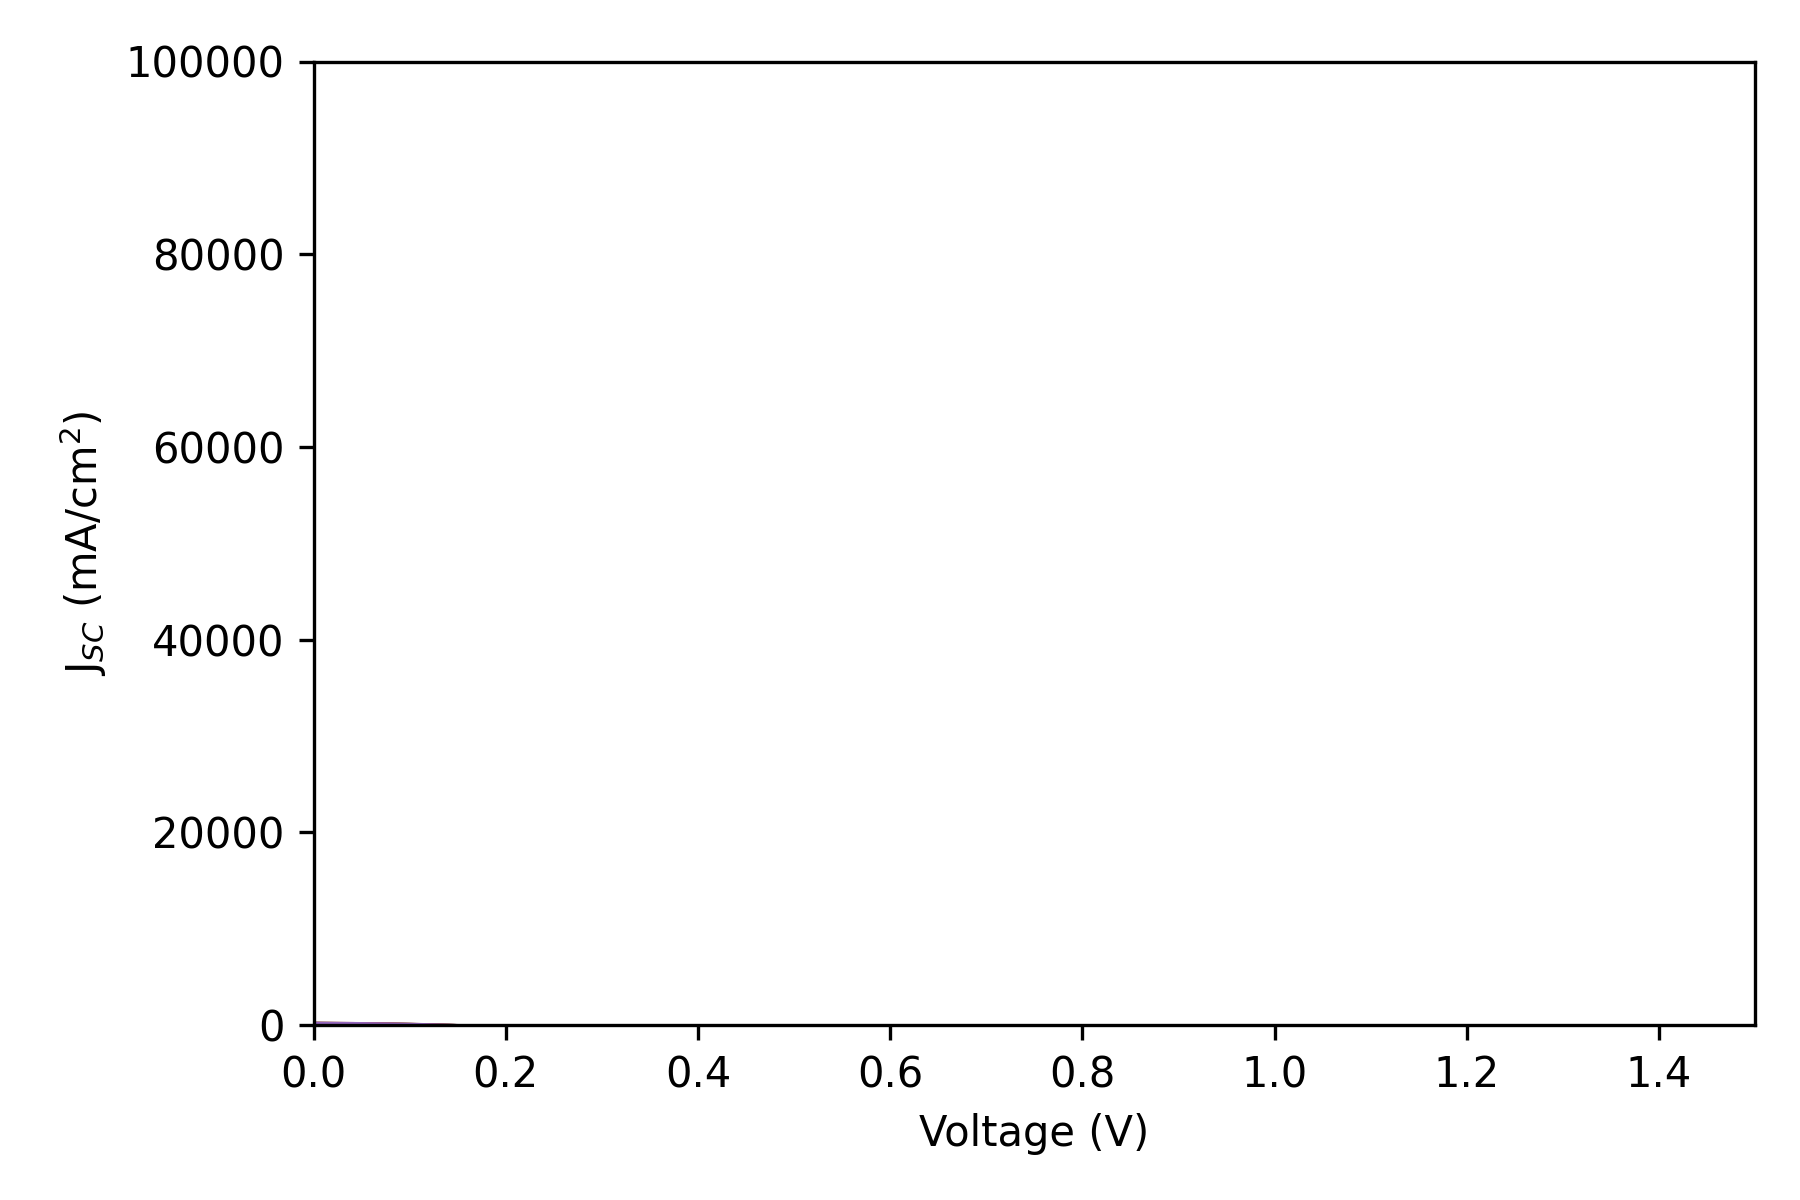
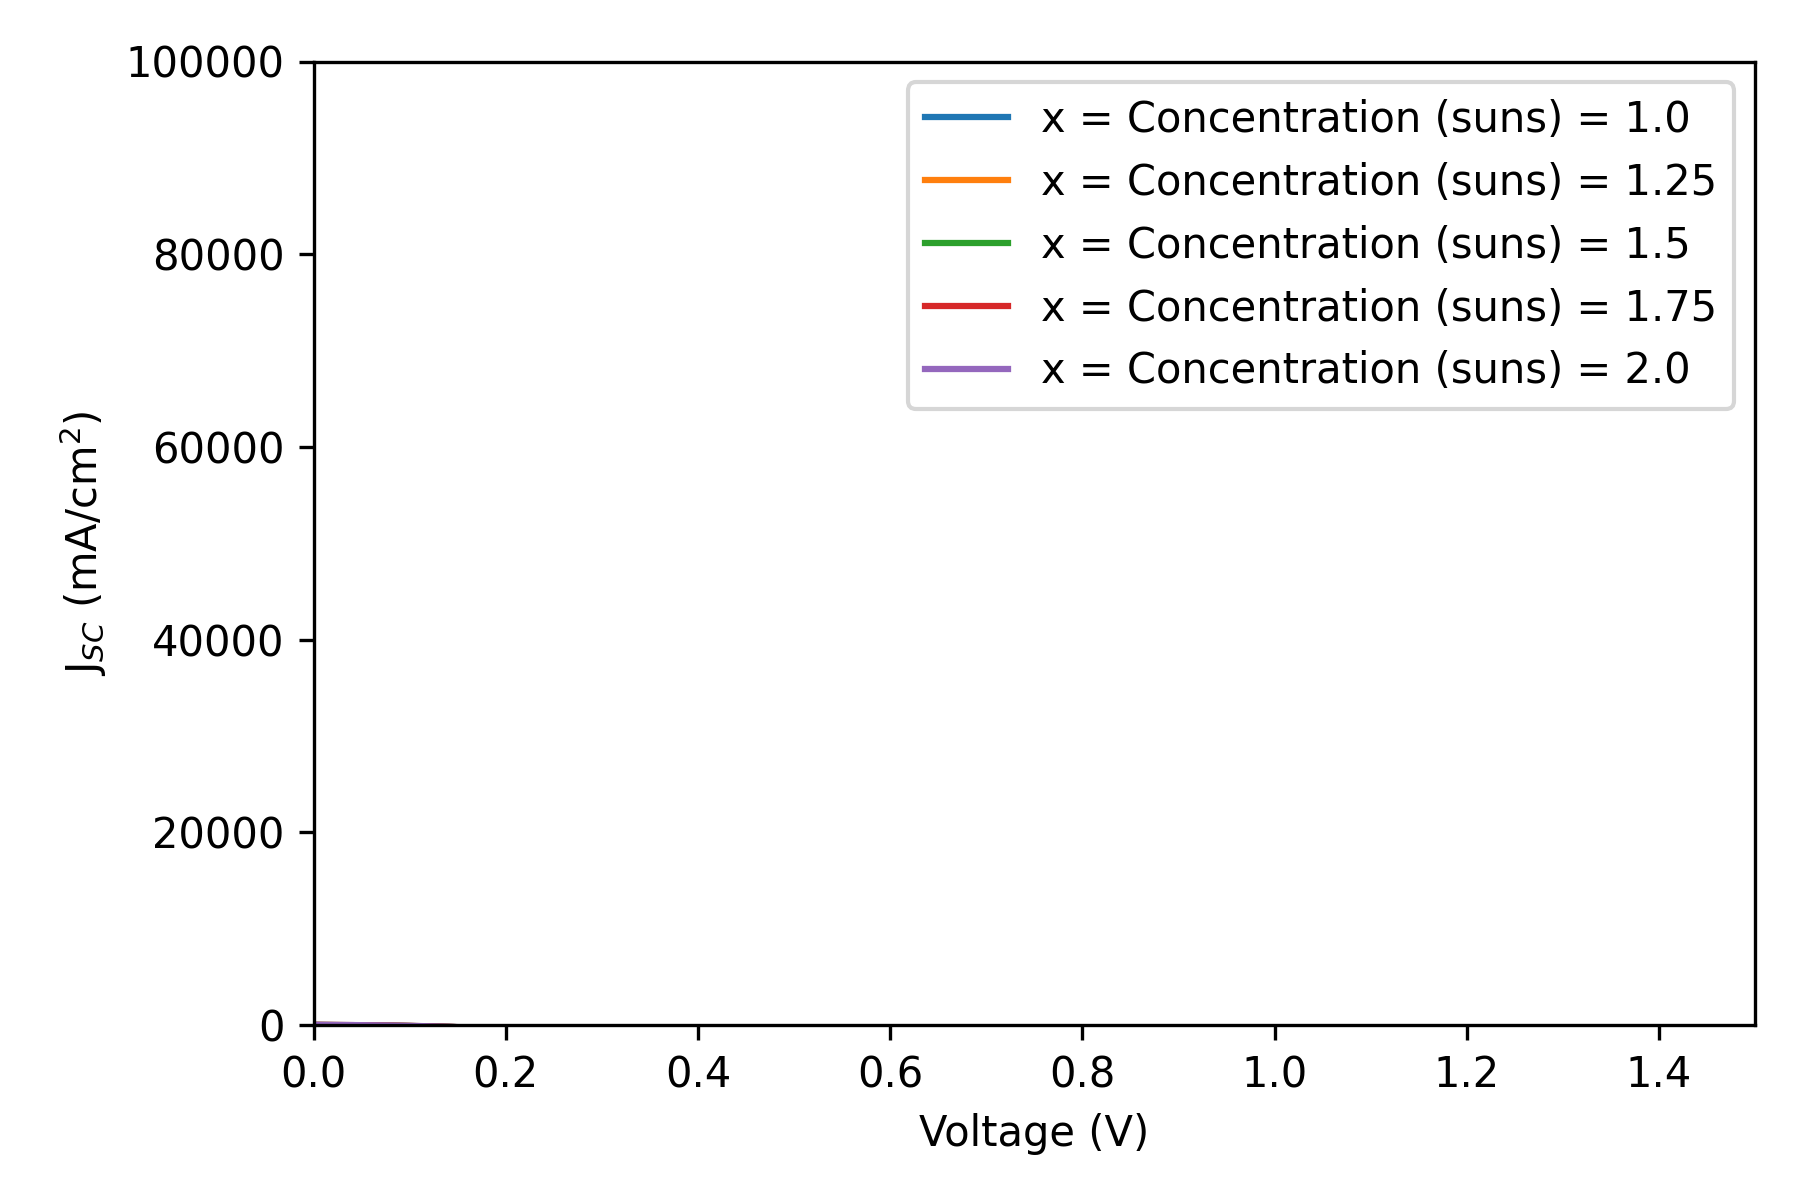
update simulation

Changed region(s): [[0.4978, 0.0617, 0.9644, 0.37]]

diff --git a/test_QD_typeI_andtypeII/simulation_SC.py b/test_QD_typeI_andtypeII/simulation_SC.py
@@ -1,5 +1,6 @@
 import time
 
+import matplotlib.pyplot as plt
 import numpy as np
 from solcore.light_source import LightSource
 from solcore.solar_cell_solver import solar_cell_solver
@@ -78,44 +79,62 @@ def save_all_file_0d(data, version, con):
     # !!!   Change  !!!
 
     fig1, axes = plt.subplots(2, 2, figsize=(11.25, 8))
-    try:
-        axes[0, 0].semilogx(con, np.array(data["Pmpp"]) / 10 / get_ligth_power(con=con), "r-o")
-        axes[0, 0].set_xlabel("Concentration (suns)")
-        axes[0, 0].set_ylabel("Efficiency (%)")
+    axes[0, 0].semilogx(con, np.array(data["Pmpp"]) / 10 / con, "r-o")
+    axes[0, 0].set_xlabel("Concentration (suns)")
+    axes[0, 0].set_ylabel("Efficiency (%)")
 
-        axes[0, 1].loglog(con, abs(np.array(data["Isc"])), "b-o")
-        axes[0, 1].set_xlabel("Concentration (suns)")
-        axes[0, 1].set_ylabel("I$_{SC}$ (Am$^{-2}$)")
+    axes[0, 1].loglog(con, abs(np.array(data["Isc"])), "b-o")
+    axes[0, 1].set_xlabel("Concentration (suns)")
+    axes[0, 1].set_ylabel("I$_{SC}$ (Am$^{-2}$)")
 
-        axes[1, 0].semilogx(con, abs(np.array(data["Voc"])), "g-o")
-        axes[1, 0].set_xlabel("Concentration (suns)")
-        axes[1, 0].set_ylabel("V$_{OC}$ (V)")
+    axes[1, 0].semilogx(con, abs(np.array(data["Voc"])), "g-o")
+    axes[1, 0].set_xlabel("Concentration (suns)")
+    axes[1, 0].set_ylabel("V$_{OC}$ (V)")
 
-        axes[1, 1].semilogx(con, abs(np.array(data["FF"])) * 100, "k-o")
-        axes[1, 1].set_xlabel("Concentration (suns)")
-        axes[1, 1].set_ylabel("Fill Factor (%)")
-        fig1.suptitle(f"{version}")
-        plt.tight_layout()
-        print('this code is working')
-    except:
-        axes[0, 0].semilogx(con, np.array(data["Pmpp"]) / 10 / con, "r-o")
-        axes[0, 0].set_xlabel("Concentration (suns)")
-        axes[0, 0].set_ylabel("Efficiency (%)")
-
-        axes[0, 1].loglog(con, abs(np.array(data["Isc"])), "b-o")
-        axes[0, 1].set_xlabel("Concentration (suns)")
-        axes[0, 1].set_ylabel("I$_{SC}$ (Am$^{-2}$)")
-
-        axes[1, 0].semilogx(con, abs(np.array(data["Voc"])), "g-o")
-        axes[1, 0].set_xlabel("Concentration (suns)")
-        axes[1, 0].set_ylabel("V$_{OC}$ (V)")
-
-        axes[1, 1].semilogx(con, abs(np.array(data["FF"])) * 100, "k-o")
-        axes[1, 1].set_xlabel("Concentration (suns)")
-        axes[1, 1].set_ylabel("Fill Factor (%)")
-        fig1.suptitle(f"{version}")
-        plt.tight_layout()
-        print('this code is error')
+    axes[1, 1].semilogx(con, abs(np.array(data["FF"])) * 100, "k-o")
+    axes[1, 1].set_xlabel("Concentration (suns)")
+    axes[1, 1].set_ylabel("Fill Factor (%)")
+    fig1.suptitle(f"{version}")
+    plt.tight_layout()
+    # try:
+    #
+    #     axes[0, 0].semilogx(con, np.array(data["Pmpp"]) / 10 / get_ligth_power(con=con), "r-o")
+    #     axes[0, 0].set_xlabel("Concentration (suns)")
+    #     axes[0, 0].set_ylabel("Efficiency (%)")
+    #
+    #     axes[0, 1].loglog(con, abs(np.array(data["Isc"])), "b-o")
+    #     axes[0, 1].set_xlabel("Concentration (suns)")
+    #     axes[0, 1].set_ylabel("I$_{SC}$ (Am$^{-2}$)")
+    #
+    #     axes[1, 0].semilogx(con, abs(np.array(data["Voc"])), "g-o")
+    #     axes[1, 0].set_xlabel("Concentration (suns)")
+    #     axes[1, 0].set_ylabel("V$_{OC}$ (V)")
+    #
+    #     axes[1, 1].semilogx(con, abs(np.array(data["FF"])) * 100, "k-o")
+    #     axes[1, 1].set_xlabel("Concentration (suns)")
+    #     axes[1, 1].set_ylabel("Fill Factor (%)")
+    #     fig1.suptitle(f"{version}")
+    #     plt.tight_layout()
+    #     print('this code is working')
+    # except:
+    #     axes[0, 0].semilogx(con, np.array(data["Pmpp"]) / 10 / con, "r-o")
+    #     axes[0, 0].set_xlabel("Concentration (suns)")
+    #     axes[0, 0].set_ylabel("Efficiency (%)")
+    #
+    #     axes[0, 1].loglog(con, abs(np.array(data["Isc"])), "b-o")
+    #     axes[0, 1].set_xlabel("Concentration (suns)")
+    #     axes[0, 1].set_ylabel("I$_{SC}$ (Am$^{-2}$)")
+    #
+    #     axes[1, 0].semilogx(con, abs(np.array(data["Voc"])), "g-o")
+    #     axes[1, 0].set_xlabel("Concentration (suns)")
+    #     axes[1, 0].set_ylabel("V$_{OC}$ (V)")
+    #
+    #     axes[1, 1].semilogx(con, abs(np.array(data["FF"])) * 100, "k-o")
+    #     axes[1, 1].set_xlabel("Concentration (suns)")
+    #     axes[1, 1].set_ylabel("Fill Factor (%)")
+    #     fig1.suptitle(f"{version}")
+    #     plt.tight_layout()
+    #     print('this code is error')
     fig2, axIV = plt.subplots(1, 1, figsize=(6, 4))
     count = 0
     for i in data["allI"]:
@@ -126,6 +145,7 @@ def save_all_file_0d(data, version, con):
     axIV.set_xlim(0, 1.5)
     axIV.set_xlabel("Voltage (V)")
     axIV.set_ylabel("J$_{SC}$ (mA/cm$^{2}$)")
+    plt.legend()
     plt.tight_layout()
 
     fig2.savefig(f'IV_curve_{version}.png', dpi=300)
@@ -165,91 +185,78 @@ def save_set_of_data(set_of_data, version, con):
 
         # linestyle = ["-", "--", ":", "-."]
         marker = [".", ",", "o", 'v', "^", "<", ">", "s", "p", "*", "h", "+", "x", "D", "d"]
-        blue = [
-            (0, 0, 1, 0.1),  # Very light blue
-            (0, 0, 1, 0.3),  # Light blue
-            (0, 0, 1, 0.5),  # Medium blue
-            (0, 0, 1, 0.7),  # Dark blue
-            (0, 0, 1, 0.9),  # Very dark blue
-            (0, 0, 1, 1.0),  # Full blue
-            (0, 0, 1, 1.0)  # Full blue, repeated to have 7 colors
-        ]
-        red = [
-            (1, 0, 0, 0.5),
-            (1, 0.5, 0.5, 0.5),
-            (1, 0, 0.5, 0.5),
-            (1, 0.5, 0, 0.5),
-            (1, 0.5, 0.5, 0.5),
-            (1, 0.5, 0, 0.5),
-            (1, 0.5, 0, 0.5)
-        ]
-        green = [
-            (0, 1, 0, 0.5),
-            (0, 1, 0.5, 0.5),
-            (0, 0.5, 0, 0.5),
-            (0, 0.5, 0.5, 0.5),
-            (0, 0, 0.5, 0.5),
-            (0, 0.5, 0.5, 0.5),
-            (0, 1, 0, 0.5)
-        ]
-        black = [
-            (0, 0, 0, 0.5),
-            (0, 0, 0.5, 0.5),
-            (0, 0.5, 0.5, 0.5),
-            (0, 0.5, 0, 0.5),
-            (0, 0, 0.5, 0.5),
-            (0, 0, 0.5, 0.5),
-            (0, 0, 0, 0.5)
-        ]
+        color = ['blue','green','red','cyan','magenta','yellow','black','white','orange','purple']
         # print(data)
-        try:
-            axes[0, 0].semilogx(con, np.array(data["Pmpp"]) / get_ligth_power(con=con)/10, color=red[num], marker=marker[num],
-                                label=f"{data['mode']}")
-            axes[0, 0].set_xlabel("Concentration (suns)")
-            axes[0, 0].set_ylabel("Efficiency (%)")
+        axes[0, 0].semilogx(con, np.array(data["Pmpp"]) / 10 / con, color=color[num], marker=marker[num],
+                            label=f"{data['mode']}")
+        axes[0, 0].set_xlabel("Concentration (suns)")
+        axes[0, 0].set_ylabel("Efficiency (%)")
 
-            axes[0, 1].loglog(con, abs(np.array(data["Isc"])), color=blue[num], marker=marker[num],
-                              label=f"{data['mode']}")
-            axes[0, 1].set_xlabel("Concentration (suns)")
-            axes[0, 1].set_ylabel("I$_{SC}$ (Am$^{-2}$)")
+        axes[0, 1].loglog(con, abs(np.array(data["Isc"])), color=color[num], marker=marker[num],
+                          label=f"{data['mode']}")
+        axes[0, 1].set_xlabel("Concentration (suns)")
+        axes[0, 1].set_ylabel("I$_{SC}$ (Am$^{-2}$)")
 
-            axes[1, 0].semilogx(con, abs(np.array(data["Voc"])), color=green[num], marker=marker[num],
-                                label=f"{data['mode']}")
-            axes[1, 0].set_xlabel("Concentration (suns)")
-            axes[1, 0].set_ylabel("V$_{OC}$ (V)")
+        axes[1, 0].semilogx(con, abs(np.array(data["Voc"])), color=color[num], marker=marker[num],
+                            label=f"{data['mode']}")
+        axes[1, 0].set_xlabel("Concentration (suns)")
+        axes[1, 0].set_ylabel("V$_{OC}$ (V)")
 
-            axes[1, 1].semilogx(con, abs(np.array(data["FF"])) * 100, color=black[num], marker=marker[num],
-                                label=f"{data['mode']}")
-            axes[1, 1].set_xlabel("Concentration (suns)")
-            axes[1, 1].set_ylabel("Fill Factor (%)")
-            fig1.suptitle(f"{version}")
-            plt.tight_layout()
-            fig1.legend()
-            print("you susessful can remove try now ")
-        except:
-            axes[0, 0].semilogx(con, np.array(data["Pmpp"]) / 10 / con, color=red[num], marker=marker[num],
-                                label=f"{data['mode']}")
-            axes[0, 0].set_xlabel("Concentration (suns)")
-            axes[0, 0].set_ylabel("Efficiency (%)")
-
-            axes[0, 1].loglog(con, abs(np.array(data["Isc"])), color=blue[num], marker=marker[num],
-                              label=f"{data['mode']}")
-            axes[0, 1].set_xlabel("Concentration (suns)")
-            axes[0, 1].set_ylabel("I$_{SC}$ (Am$^{-2}$)")
-
-            axes[1, 0].semilogx(con, abs(np.array(data["Voc"])), color=green[num], marker=marker[num],
-                                label=f"{data['mode']}")
-            axes[1, 0].set_xlabel("Concentration (suns)")
-            axes[1, 0].set_ylabel("V$_{OC}$ (V)")
-
-            axes[1, 1].semilogx(con, abs(np.array(data["FF"])) * 100, color=black[num], marker=marker[num],
-                                label=f"{data['mode']}")
-            axes[1, 1].set_xlabel("Concentration (suns)")
-            axes[1, 1].set_ylabel("Fill Factor (%)")
-            fig1.suptitle(f"{version}")
-            plt.tight_layout()
-            fig1.legend()
-            print('you fail fix bug')
+        axes[1, 1].semilogx(con, abs(np.array(data["FF"])) * 100, color=color[num], marker=marker[num],
+                            label=f"{data['mode']}")
+        axes[1, 1].set_xlabel("Concentration (suns)")
+        axes[1, 1].set_ylabel("Fill Factor (%)")
+        fig1.suptitle(f"{version}")
+        plt.tight_layout()
+        fig1.legend()
+        # try:
+        #     axes[0, 0].semilogx(con, np.array(data["Pmpp"]) / get_ligth_power(con=con)/10, color=color[num], marker=marker[num],
+        #                         label=f"{data['mode']}")
+        #     axes[0, 0].set_xlabel("Concentration (suns)")
+        #     axes[0, 0].set_ylabel("Efficiency (%)")
+        #
+        #     axes[0, 1].loglog(con, abs(np.array(data["Isc"])), color=color[num], marker=marker[num],
+        #                       label=f"{data['mode']}")
+        #     axes[0, 1].set_xlabel("Concentration (suns)")
+        #     axes[0, 1].set_ylabel("I$_{SC}$ (Am$^{-2}$)")
+        #
+        #     axes[1, 0].semilogx(con, abs(np.array(data["Voc"])), color=color[num], marker=marker[num],
+        #                         label=f"{data['mode']}")
+        #     axes[1, 0].set_xlabel("Concentration (suns)")
+        #     axes[1, 0].set_ylabel("V$_{OC}$ (V)")
+        #
+        #     axes[1, 1].semilogx(con, abs(np.array(data["FF"])) * 100, color=color[num], marker=marker[num],
+        #                         label=f"{data['mode']}")
+        #     axes[1, 1].set_xlabel("Concentration (suns)")
+        #     axes[1, 1].set_ylabel("Fill Factor (%)")
+        #     fig1.suptitle(f"{version}")
+        #     plt.tight_layout()
+        #     fig1.legend()
+        #     print("you susessful can remove try now ")
+        # except:
+        #     axes[0, 0].semilogx(con, np.array(data["Pmpp"]) / 10 / con, color=color[num], marker=marker[num],
+        #                         label=f"{data['mode']}")
+        #     axes[0, 0].set_xlabel("Concentration (suns)")
+        #     axes[0, 0].set_ylabel("Efficiency (%)")
+        #
+        #     axes[0, 1].loglog(con, abs(np.array(data["Isc"])), color=color[num], marker=marker[num],
+        #                       label=f"{data['mode']}")
+        #     axes[0, 1].set_xlabel("Concentration (suns)")
+        #     axes[0, 1].set_ylabel("I$_{SC}$ (Am$^{-2}$)")
+        #
+        #     axes[1, 0].semilogx(con, abs(np.array(data["Voc"])), color=color[num], marker=marker[num],
+        #                         label=f"{data['mode']}")
+        #     axes[1, 0].set_xlabel("Concentration (suns)")
+        #     axes[1, 0].set_ylabel("V$_{OC}$ (V)")
+        #
+        #     axes[1, 1].semilogx(con, abs(np.array(data["FF"])) * 100, color=color[num], marker=marker[num],
+        #                         label=f"{data['mode']}")
+        #     axes[1, 1].set_xlabel("Concentration (suns)")
+        #     axes[1, 1].set_ylabel("Fill Factor (%)")
+        #     fig1.suptitle(f"{version}")
+        #     plt.tight_layout()
+        #     fig1.legend()
+        #     print('you fail fix bug')
 
         for count, i in enumerate(data["allI"]):
             axIV.plot(-V, i / -10, label=f"x = Concentration (suns) = {con[count]} mode = {data['mode']}")
@@ -494,11 +501,11 @@ def sim0D():
 
 
 
-def sim2D():
+def sim1D():
     start = time.perf_counter()
-    version = "QDSC_InSb_and_GaSb_interlayer"
-    sim_mat = solar_cell_InSb_and_GaSb_interlayer()
-    note = 'add dot stay at p layer'
+    version = "referance_all_solar_cell"
+    sim_mat = solar_cell_InSb_and_GaSb_like_paper_sweep_stack()
+    note = '0580A 0581A 0583A'
     set_of_data = simulation1D(version, sim_mat, note=note)
     stop = time.perf_counter()
     hours, minutes, seconds = sec_to_hms(stop - start)
@@ -522,8 +529,8 @@ def load(version, is1D=False, ):
 
 
 def main():
-    sim0D()
-
+    sim1D()
+    0
 if __name__ == "__main__":
     main()
     plt.show()

diff --git a/test_QD_typeI_andtypeII/material_and_layer_QD.py b/test_QD_typeI_andtypeII/material_and_layer_QD.py
@@ -528,6 +528,70 @@ def solar_cell_InSb_and_GaSb_like_paper():
     # solar_each_size_1[f"interlayer ={i}"] = solarcell_InSb_GaSb
     return solarcell_InSb_GaSb
 
+def solar_cell_InSb_and_GaSb_like_paper_sweep_stack():
+    stack = [1, 2, 3, 4]
+    size_InSb = 2.5
+    size_GaSb = 16.16
+    solar_each_size_1 = {}
+    for i in stack:
+        AlGaAs = material("AlGaAs")(T=T, Al=0.3, strained=True)
+        n_AlGaAs = material("AlGaAs")(T=T, Al=0.3, strained=True, Nd=si("1e17 cm-3"))
+        n_GaAs = material('GaAs')(T=T, Nd=si('1e18 cm-3'), )
+        i_GaAs = material("GaAs")(T=T)
+        # p_GaAs = material("GaAs")(T=T, Na=si("1e16 cm-3"), )
+        p_GaInP = material("GaInP")(T=T, In=0.42, Na=si("2e18 cm-3"))
+        p_GaAs_buffer = material("GaAs")(T=T, Na=si("2e18 cm-3"))
+        GaAs_cap = material('GaAs')(T=T, Nd=si('1e16 cm-3'), )
+        p_GaAs = material("GaAs")(T=T, Na=si("1e16 cm-3"), )
+        InSb = material("InSb")(T=T
+                                , strained=False
+                                , electron_mobility=7.7
+                                , hole_mobility=0.0850, valence_band_offset=si("0.0 eV")
+                                , band_gap=si("0.173723 eV"), spin_orbit_splitting=si("0.81 eV")
+                                , gamma1=34.8, gamma2=15.5, gamma3=16.5
+                                , a_c=si("-6.94 eV"), a_v=si("-0.36 eV"), b=si("-2 eV")
+                                , Nd=si("5e16 cm-3")
+                                )
+        GaSb = material("GaSb")(T=T, strained=True,
+                                electron_mobility=si("3e3 cm2"),
+                                hole_mobility=si("1e3 cm2"),
+                                Nd = si("5e16 cm-3")
+                                )
+        # print(InSb.eff_mass_lh_z)
+        QW = PDD.QWunit([
+                            Layer(width=si(f"100 nm"), material=n_AlGaAs, role="barrier"),
+                        ]
+                        +
+                        [Layer(width=si(f"{100-size_InSb} nm"), material=GaAs_cap, role="interlayer"),
+                         Layer(width=si(f"{size_InSb} nm"), material=InSb, role="well"),  # 5-20 nm
+                         Layer(width=si(f"{100-size_GaSb} nm"), material=GaAs_cap, role="interlayer"),
+                         Layer(width=si(f"{size_GaSb} nm"), material=GaSb, role="well"),
+                         Layer(width=si(f"{50} nm"), material=GaAs_cap, role="interlayer"),
+                         ]* i  # 5-20 nm
+                        # Layer(width=si("20 nm"), material=i_GaAs, role="barrier"),]*dot
+
+                        +
+                        [Layer(width=si(f"100 nm"), material=n_AlGaAs, role="barrier")
+                         ], T=T, repeat=1, substrate=GaAs_cap)
+        QW_list = QW.GetEffectiveQW(wavelengths=wl, use_Adachi=True)
+        GaAs_junction = Junction([
+                                     Layer(width=si("50 nm"), material=n_GaAs, role="Emitter"), ]
+                                 + QW_list
+                                 + [
+                                     Layer(width=si("100 nm"), material=n_GaAs, role="Emitter"),
+                                     Layer(width=si("2800 nm"), material=p_GaAs, role="Base"),
+                                     # Layer(width=si("100 nm"), material=p_GaInP, role="BSF"),
+                                     # Layer(width=si("150 nm"), material=p_GaAs_buffer, role="Buffer"),
+                                 ],
+                                 T=T, kind="PDD", substrate=p_GaAs)
+        solarcell_InSb_GaSb = SolarCell([
+            # Layer(width=si("100 nm"), material=MgF2, role="AR1"),
+            # Layer(width=si("50 nm"), material=ZnS, role="AR2"),
+            GaAs_junction,
+        ]
+            , T=T, substrate=p_GaAs)
+        solar_each_size_1[f"dot stack ={i}"] = solarcell_InSb_GaSb
+    return solar_each_size_1
 
 
 def solar_cell_InSb_and_GaSb_doped():
